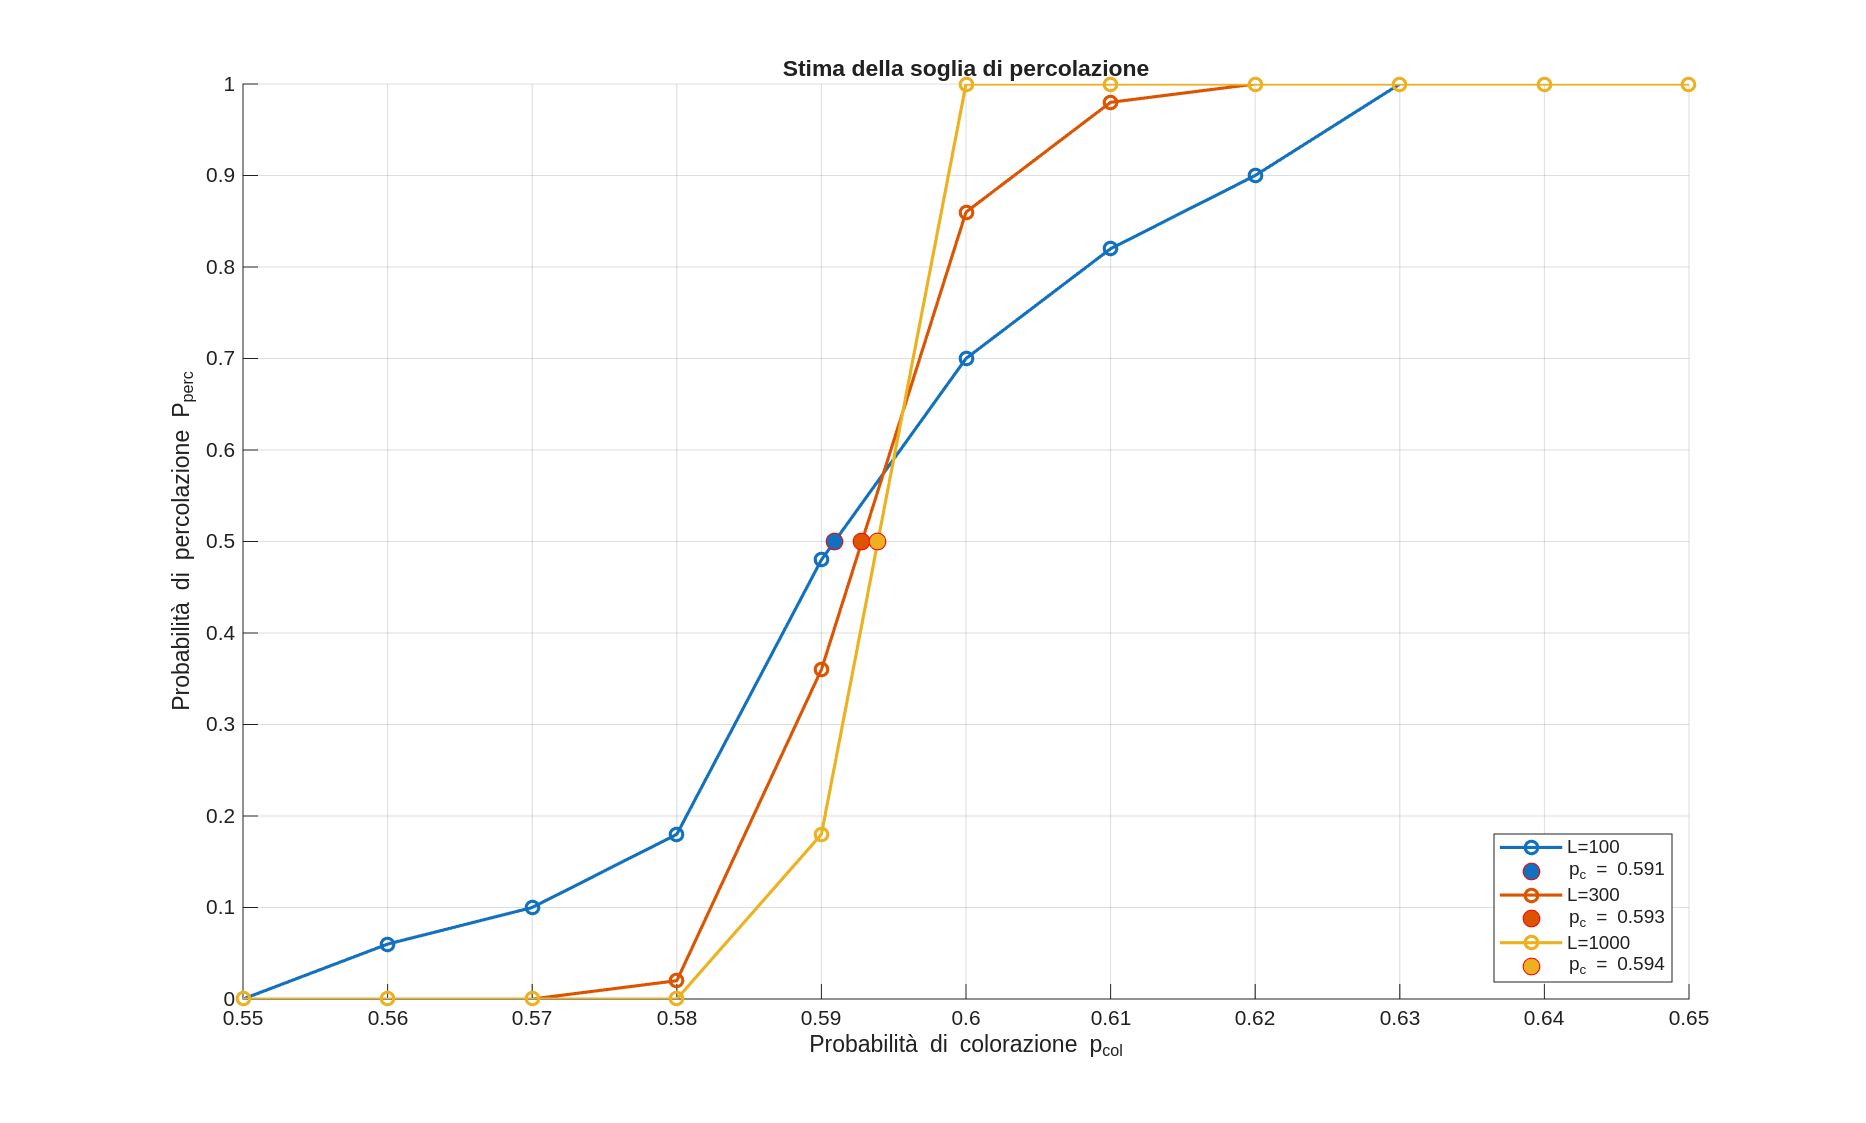
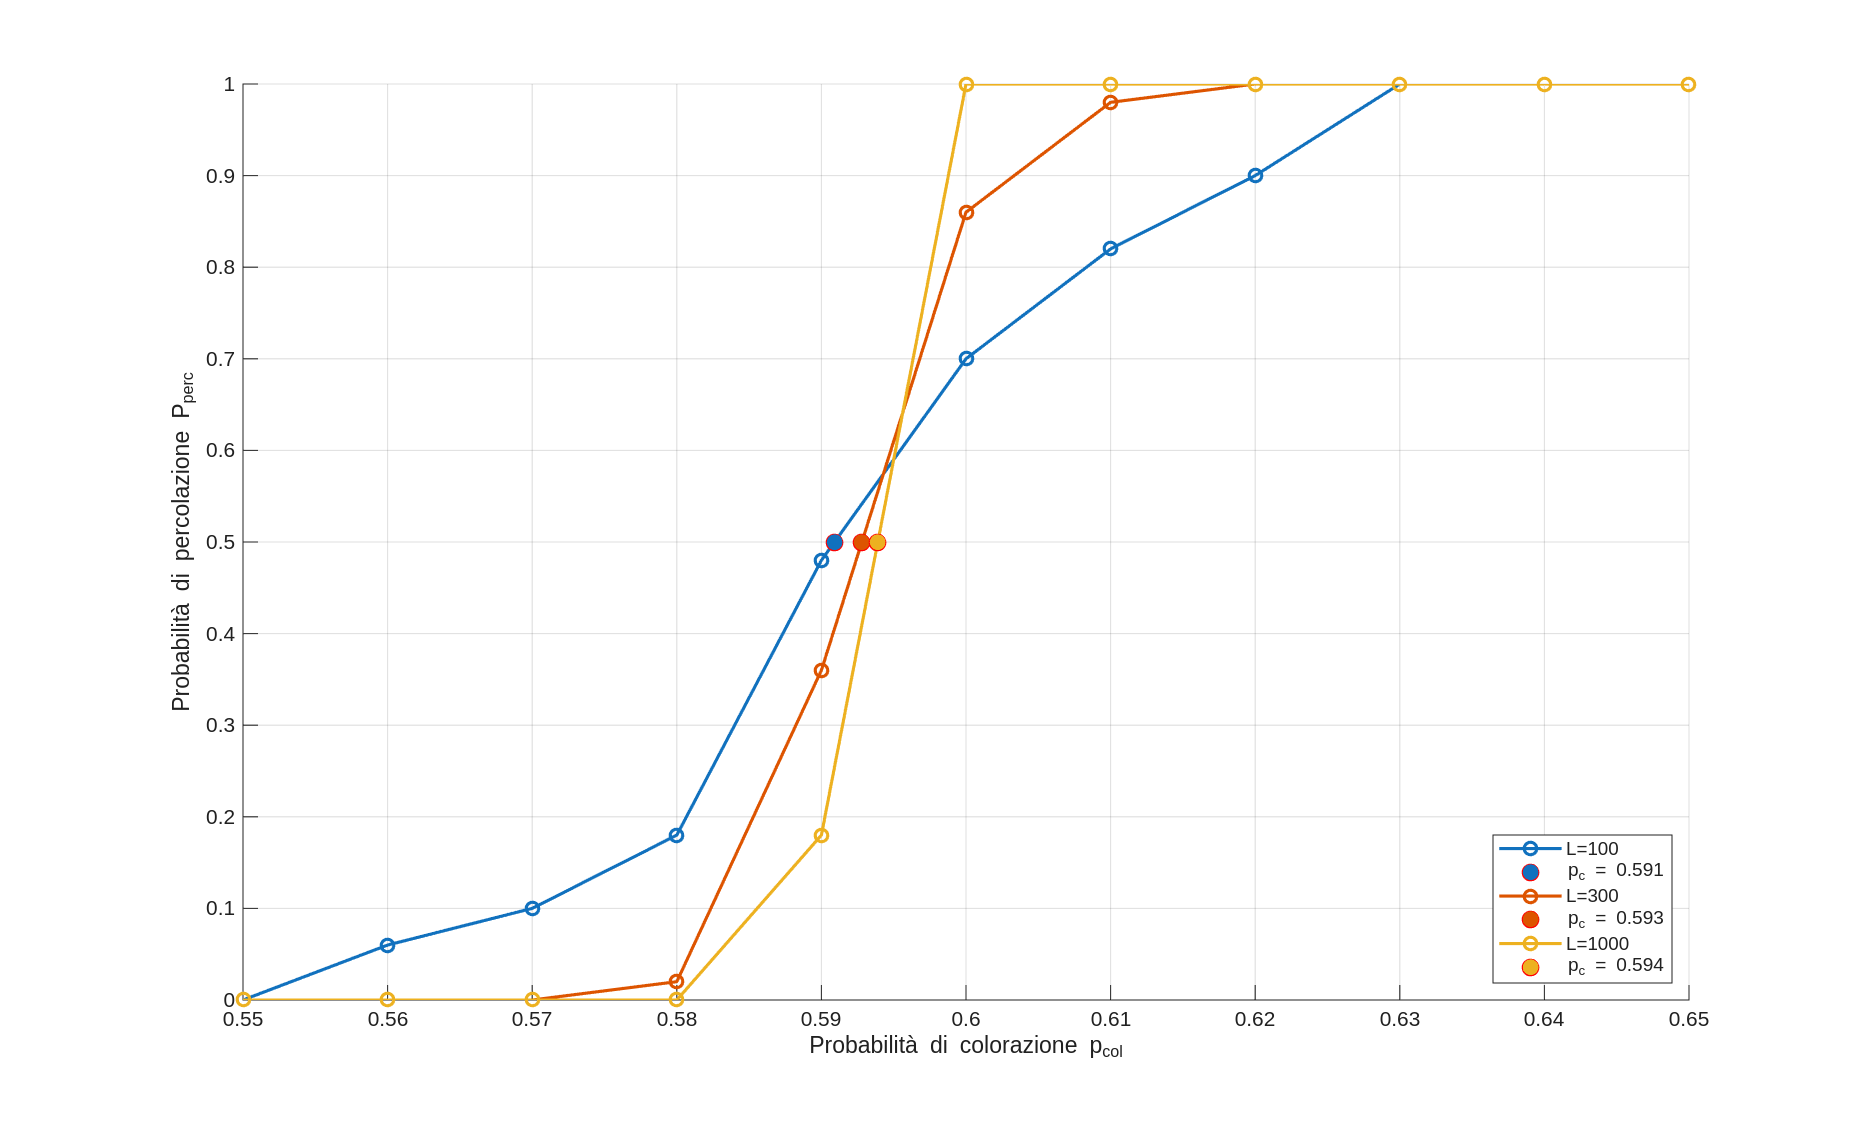
graph generation update

diff --git a/p_crit_plot.m b/p_crit_plot.m
@@ -1,4 +1,4 @@
-load("stats_perc_thr.mat");
+load("output/stats_perc_thr.mat");
 probs = 0.55:0.01:0.65;
 dims = [100; 300; 1000];
 
@@ -13,7 +13,7 @@ for d = 1:length(dims)
     [perc_unique, ia] = unique(perc);
     prob_unique = probs(ia);
 
-    % Interpolazione spline
+    % Interpolazione
     if length(perc_unique) >= 2
         p_c = interp1(perc_unique, prob_unique, 0.5, 'linear');
         fprintf("Soglia stimata di percolazione (spline) per L=%d: p_c = %.4f\n", dims(d), p_c);
@@ -34,9 +34,8 @@ end
 
 xlabel('Probabilità di colorazione p_{col}');
 ylabel('Probabilità di percolazione P_{perc}');
-title('Stima della soglia di percolazione');
 legend('Location','southeast');
 xlim([min(probs), max(probs)]);
 ylim([0 1]);
 
-saveas(gcf, 'out/percolation_threshold.png');
+saveas(gcf, 'output/percolation_threshold.png');

diff --git a/perc_thr.m b/perc_thr.m
@@ -2,7 +2,7 @@ clc; clear; close all;
 
 tic
 
-probs = 0.55:0.01:0.65;%[0.55, 0.55, 0.57, 0.58, 0.59, 0.60, 0.625, 0.65]; % Valori di pcol
+probs = 0.55:0.01:0.65; % Valori di pcol
 dims = [100; 300; 1000];  % Taglie del reticolo
 iter = 50;           % Numero di esperimenti
 
